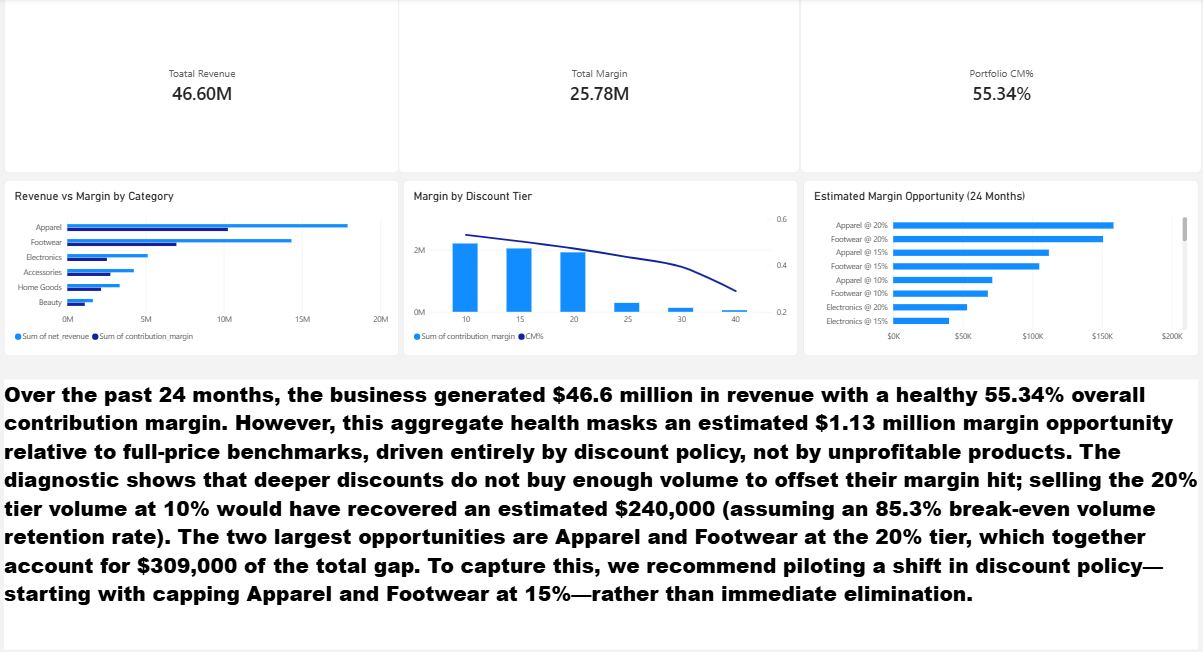
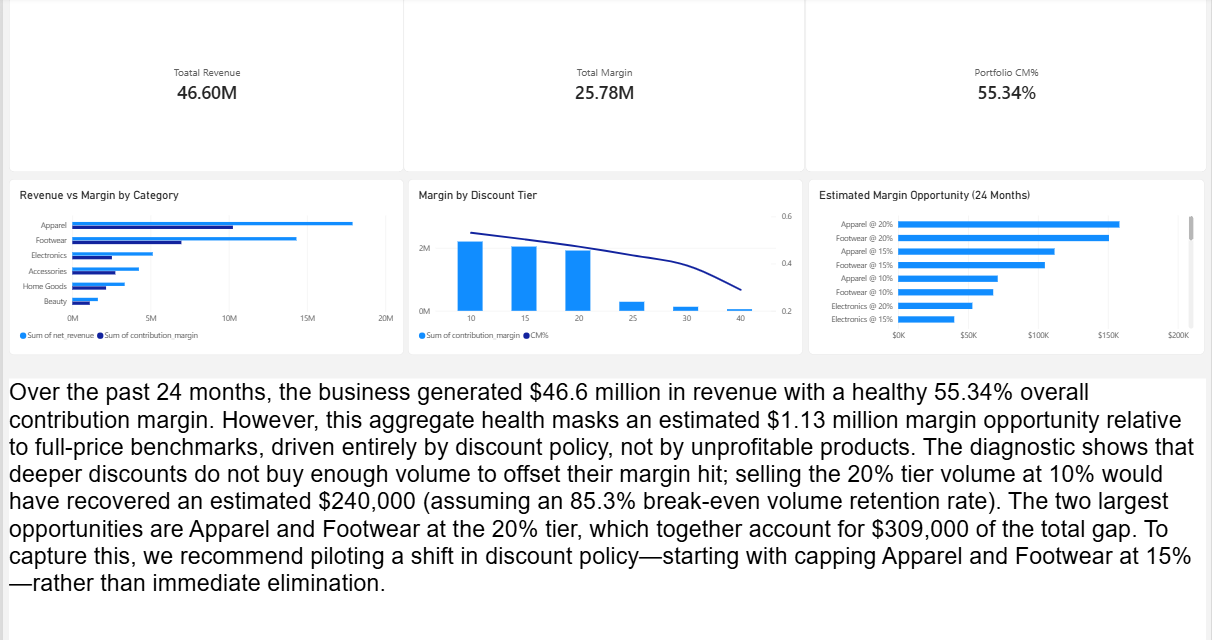
Rigor Revision: Final dashboard, sensitivity models, and reproducibility scripts

diff --git a/README.md b/README.md
@@ -21,9 +21,14 @@ I analyzed **970,838 line items** across a 30-store retail chain over 24 months.
 ![Dashboard](docs/figures/dashboard_screenshot.png)
 
 ## How to Reproduce
-1. `docker compose up -d`
-2. `python scripts/01_build_staging.py`
-3. Run the SQL files in `sql/` sequentially, or run the Jupyter notebooks.
+**Prerequisites:** Docker, Python 3.10+, Power BI Desktop (optional, for dashboard).
+
+1. **Data Acquisition:** Download the dataset from [Mendeley Data](https://data.mendeley.com/datasets/39xdjxgnmf/1). Extract the files into `data/raw/`. (Note: The raw data is gitignored to keep the repository lightweight).
+2. **Environment Setup:** 
+   ```bash
+   python -m venv venv
+   source venv/bin/activate  # Or venv\Scripts\activate on Windows
+   pip install -r requirements.txt
 
 ## Executive Memo
 Read the full [recommendation memo here](deliverables/memo.md).
